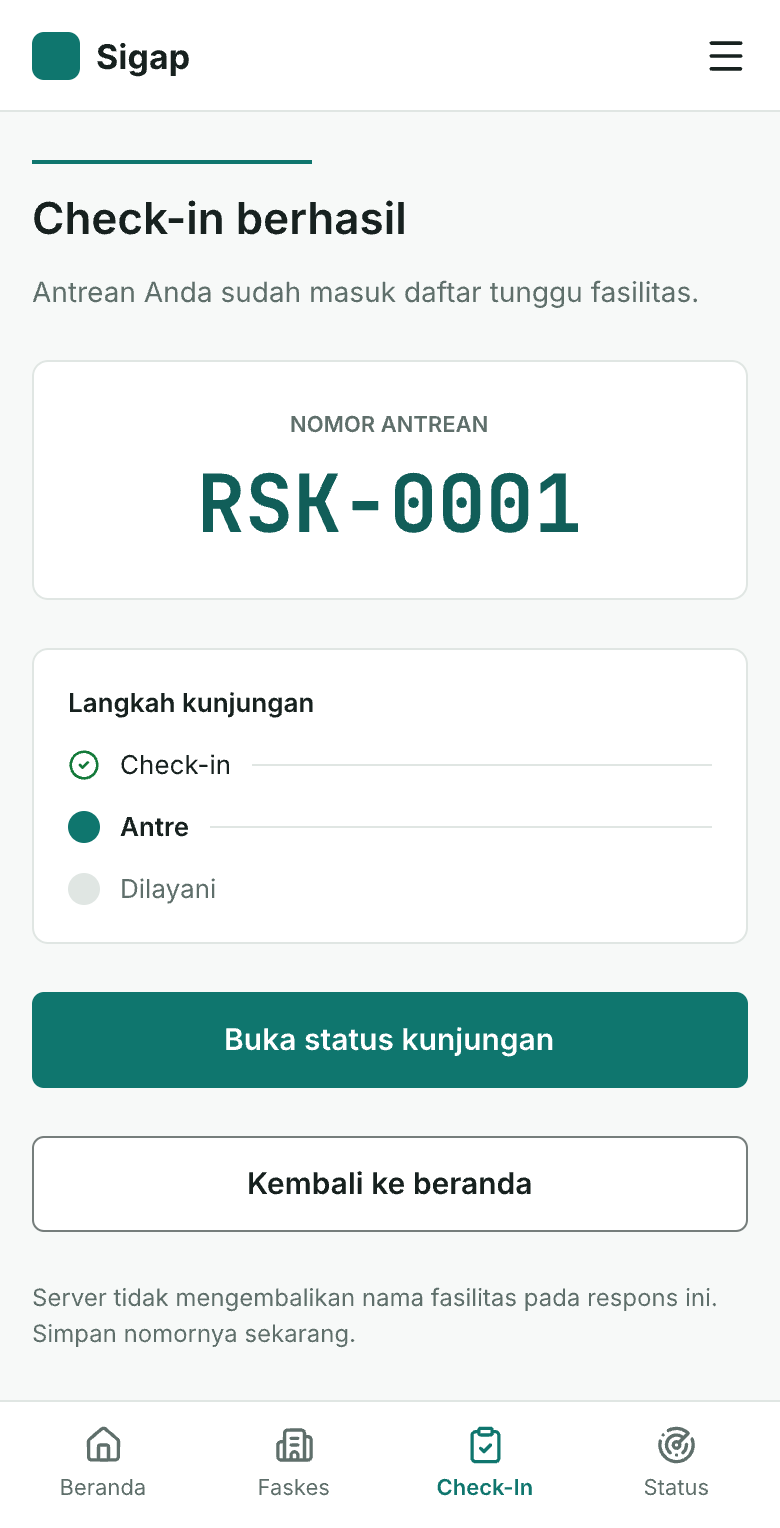
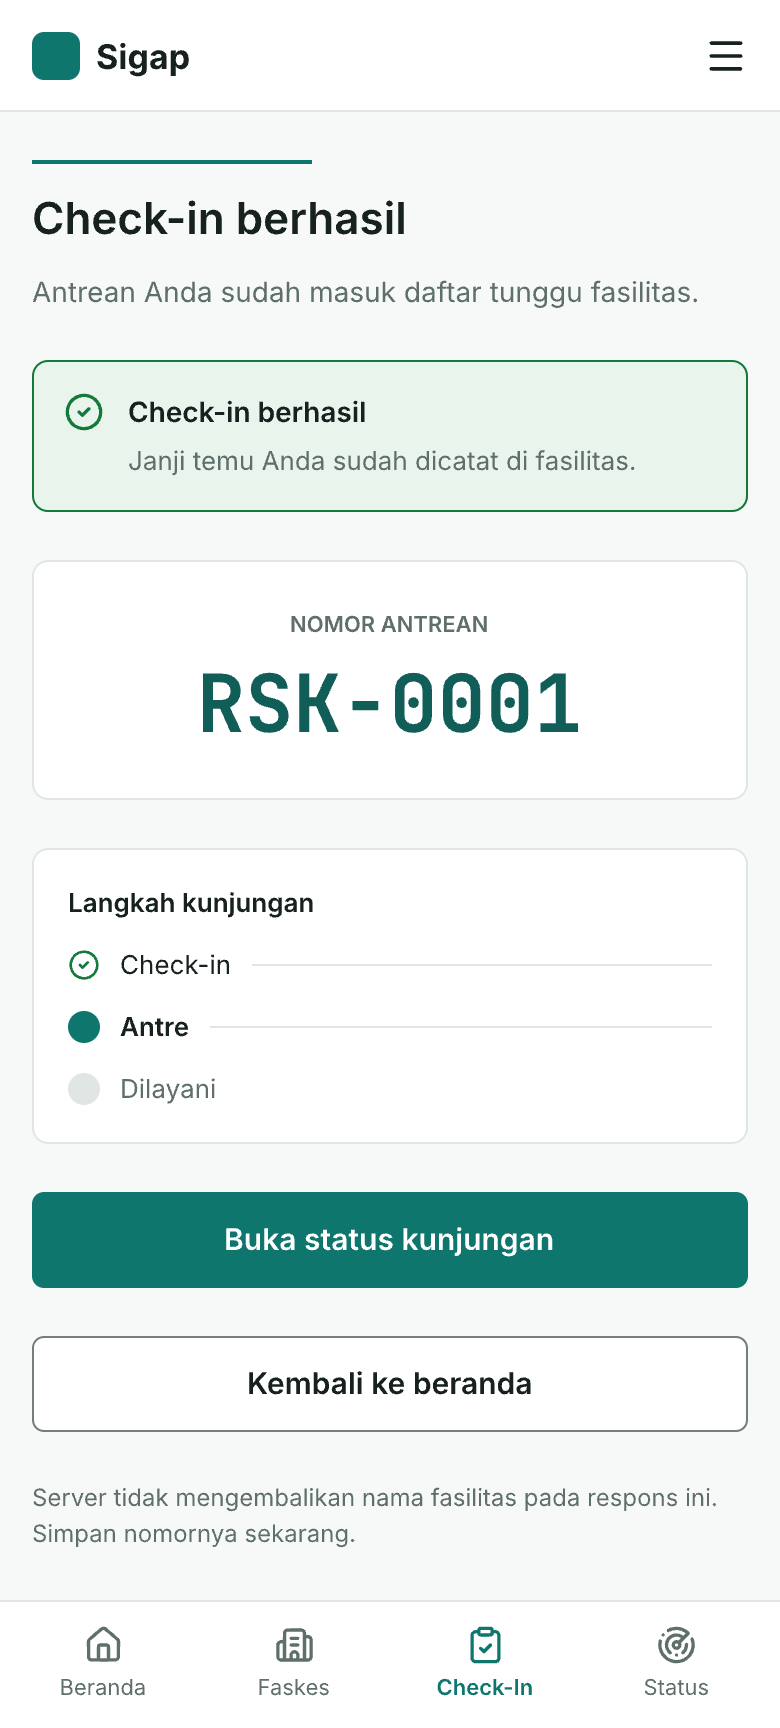
fix(sigap-v2.2): add success panel to mobile check-in result
kv4Js carried the heading, ticket and progress list but no tone-carrying panel,
so the mobile success state had no semantic icon while the desktop 46 States
matrix and the walk-in success both did. Added the green circle-check panel.

sigap.pen sha256 237946c92b91c57c46c5b0c19d92fbeec4a3dc278e0562b4b61f4f4e53f914c5

diff --git a/design/prototypes/v22-shots/MANIFEST.md b/design/prototypes/v22-shots/MANIFEST.md
@@ -2,8 +2,8 @@
 
 Generated: 2026-10-16
 Source: `F:\Sehat-Hub\design\prototypes\sigap.pen`
[1 lines of base64/hex data omitted]
-Source size: 1,457,099 bytes
[1 lines of base64/hex data omitted]
+Source size: 1,459,122 bytes
 Mirror (byte-identical): `F:\sigap-design-v2\design\prototypes\sigap-civic-v2.pen`
[1 lines of base64/hex data omitted]
 Frame count: **45** (V2.1 had 37)
@@ -50,7 +50,7 @@ Export dir: `F:\Sehat-Hub\design\prototypes\v22-shots\`
[8 lines of base64/hex data omitted]
@@ -60,11 +60,22 @@ Export dir: `F:\Sehat-Hub\design\prototypes\v22-shots\`
[2 lines of base64/hex data omitted]
 
+## Before/after evidence
+
+| File | Defect |
+|---|---|
+| `EVIDENCE-P0-1-homepage-cta.png` | homepage CTA collision |
+| `EVIDENCE-P0-2-nav-active.png` | nav active-state semantics |
+| `EVIDENCE-P0-3-checkin-desktop.png` | check-in desktop parity |
+| `EVIDENCE-P0-3-checkin-mobile.png` | check-in mobile parity |
+| `EVIDENCE-P0-4-booking-mobile.png` | mobile booking progression |
+| `EVIDENCE-P0-5-walkin.png` | walk-in pre/post-submit ambiguity |
+
 ## Overview sheet
 
 | File | Description | SHA-256 |
 |---|---|---|
[2 lines of base64/hex data omitted]
 
 ## Verification
 
@@ -73,8 +84,9 @@ Export dir: `F:\Sehat-Hub\design\prototypes\v22-shots\`
 - Internal child overflow / clipping (01 Components gallery excluded, it intentionally bleeds): **0**
 - Broken component references: **0**
 - Text nodes below the 11px floor: **0**
-- Nav refs with exactly one active tab, or zero where no tab maps: **27 / 27**
+- Nav refs: **27** — 24 with exactly one active tab, 3 with zero where no tab maps (`/wallet`, `/auth/login`, `/auth/register`)
 - Fabricated visit records: **0**
 - Wrong weekdays (20 Okt 2026 = Selasa): **0**
+- Proximity claims (`terdekat`): **0**
 - Route map matches the 16 real SvelteKit routes: **yes**
 - Missing PNGs: **0**

diff --git a/design/prototypes/SIGAP-V2-HANDOFF.md b/design/prototypes/SIGAP-V2-HANDOFF.md
@@ -1,7 +1,7 @@
 # SIGAP V2.2 — Pen.dev Prototype Handoff
 
 **Artifact (canonical):** `F:\Sehat-Hub\design\prototypes\sigap.pen`
[2 lines of base64/hex data omitted]
 **Byte-identical mirror:** `F:\sigap-design-v2\design\prototypes\sigap-civic-v2.pen` (branch `design/sigap-v2-prototype`)
[1 lines of base64/hex data omitted]
 
